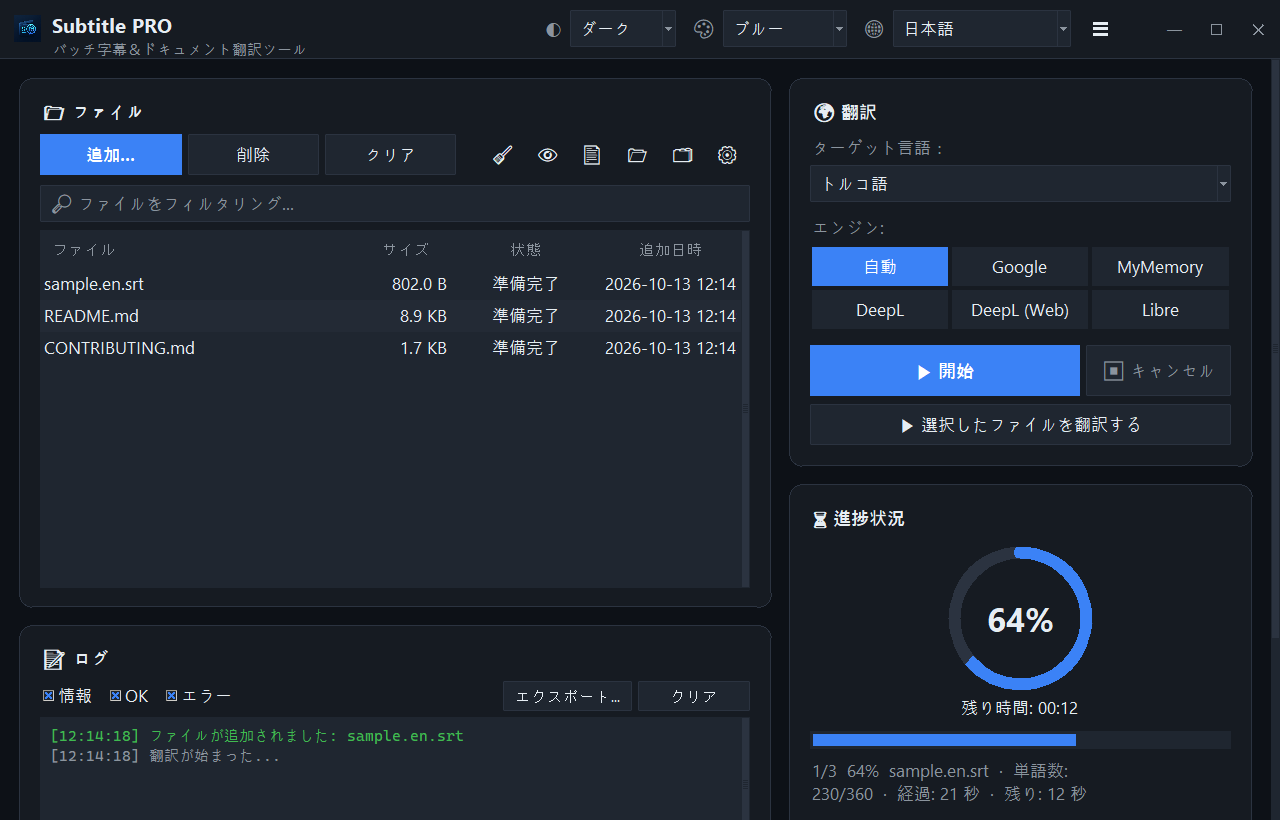
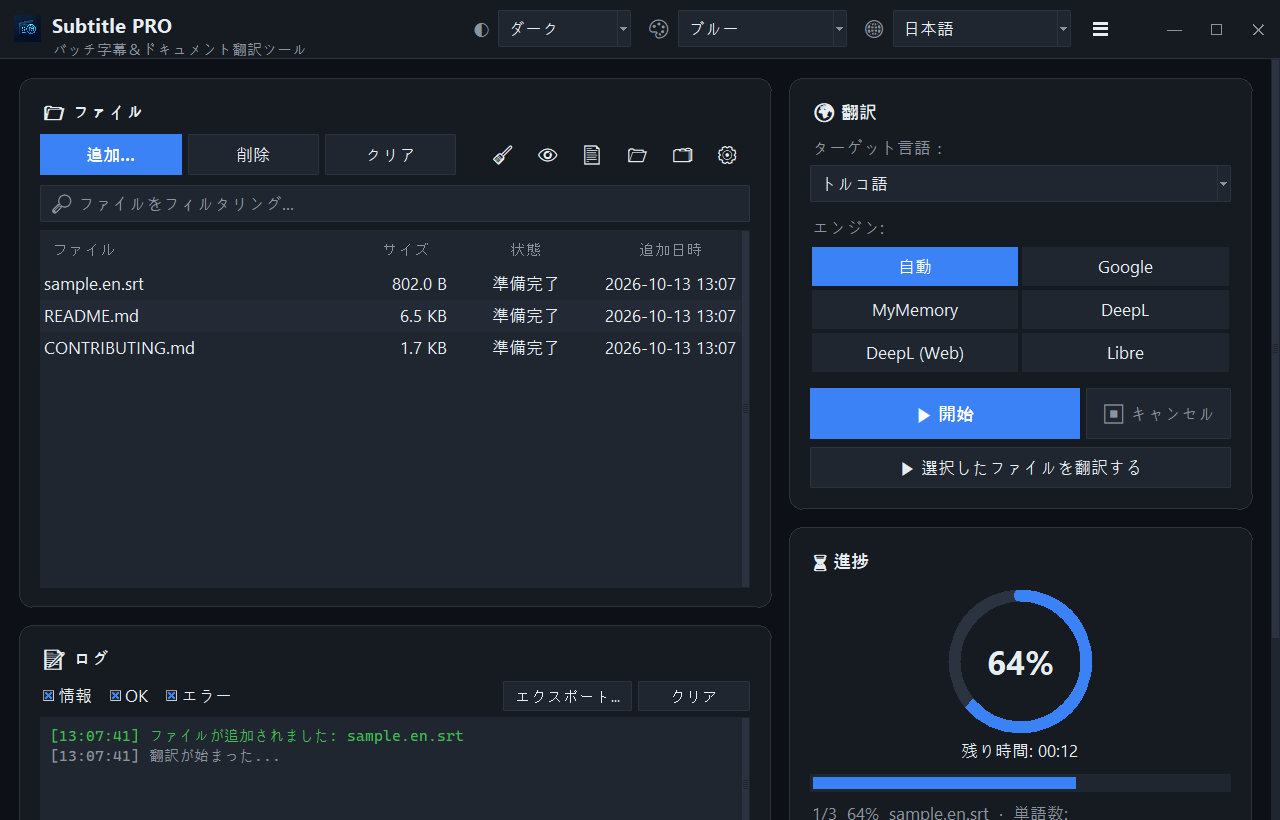
Engine chips in two columns, wider header pickers, refreshed screenshots
Linux CI: Finnish 'Automaattinen' did not fit a 3-column chip with DejaVu fonts. English theme picker showed 'Dark moc'; Vietnamese teal name overflowed. New test measures every translation against the header pickers.

diff --git a/translate_srt.py b/translate_srt.py
@@ -2790,7 +2790,7 @@ class TranslatorGUI:
         self.lbl_hdr_theme = ttk.Label(hr, text="◐", style="Title.TLabel")
         self.lbl_hdr_theme.pack(side="left", padx=(0, 6))
         self.theme_var = tk.StringVar(value=("dark" if self.dark_mode_var.get() else "light"))
-        self.cmb_theme = ttk.Combobox(hr, state="readonly", width=8)
+        self.cmb_theme = ttk.Combobox(hr, state="readonly", width=11)  # fits "Dark mode" / "Mode sombre"
         self.cmb_theme.pack(side="left", padx=(0, 14))
 
         def _on_theme_pick(_e=None):
@@ -2803,7 +2803,7 @@ class TranslatorGUI:
         self.cmb_theme.bind("<<ComboboxSelected>>", _on_theme_pick)
         self.lbl_hdr_accent = ttk.Label(hr, text="🎨", style="Title.TLabel")
         self.lbl_hdr_accent.pack(side="left", padx=(0, 6))
-        self.cmb_accent = ttk.Combobox(hr, state="readonly", width=10)
+        self.cmb_accent = ttk.Combobox(hr, state="readonly", width=15)  # longest colour names (fi, pl, el)
         self.cmb_accent.pack(side="left", padx=(0, 14))
 
         def _on_accent_pick(_e=None):
@@ -3027,10 +3027,10 @@ class TranslatorGUI:
         for i, (val, txt, ttip) in enumerate(engines):
             rb = ttk.Radiobutton(chips, text=self._tr(txt), value=val, variable=self.engine_var, style="Chip.Toolbutton",
                                  command=lambda: (self._refresh_status_bar(), self._save_settings()))
-            rb.grid(row=i // 3, column=i % 3, sticky="ew", padx=2, pady=2)
+            rb.grid(row=i // 2, column=i % 2, sticky="ew", padx=2, pady=2)  # 2 columns: long names (fi "Automaattinen") fit with wider fonts
             self.engine_radios[val] = rb
             tip(f"engine_{val}", rb, ttip)
-        for col in range(3):
+        for col in range(2):
             chips.columnconfigure(col, weight=1, uniform="chips")
         run_row = ttk.Frame(frm_lang)
         run_row.pack(fill="x")

diff --git a/tests/test_ui_i18n.py b/tests/test_ui_i18n.py
@@ -345,3 +345,15 @@ def test_default_target_language(gui):
     gui.ui_lang_code = "de"
     assert gui._default_target_code(None) == "de"
     gui.ui_lang_code = "en"
+
+
+def test_header_pickers_fit_every_translation(gui):
+    """Combobox text is not covered by the clipping audit: "Dark mode" showed as "Dark moc"."""
+    import tkinter.font as tkfont
+    gui.root.update()
+    font = tkfont.nametofont("TkDefaultFont")
+    for cb, keys in ((gui.cmb_theme, ("Light mode", "Dark mode")),
+                     (gui.cmb_accent, tuple(a.capitalize() for a in gui.ACCENTS))):
+        room = cb.winfo_width() - 26  # arrow + padding
+        too_long = [(c, PACKS[c][k]) for c in PACKS for k in keys if font.measure(PACKS[c][k]) > room]
+        assert not too_long, too_long[:5]
